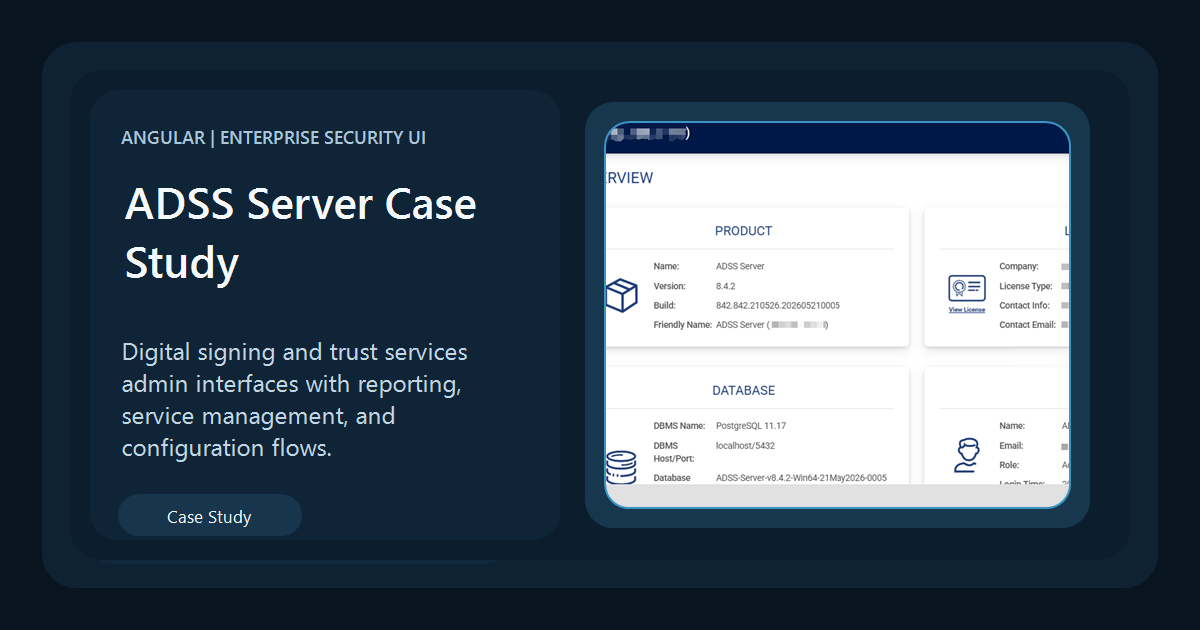
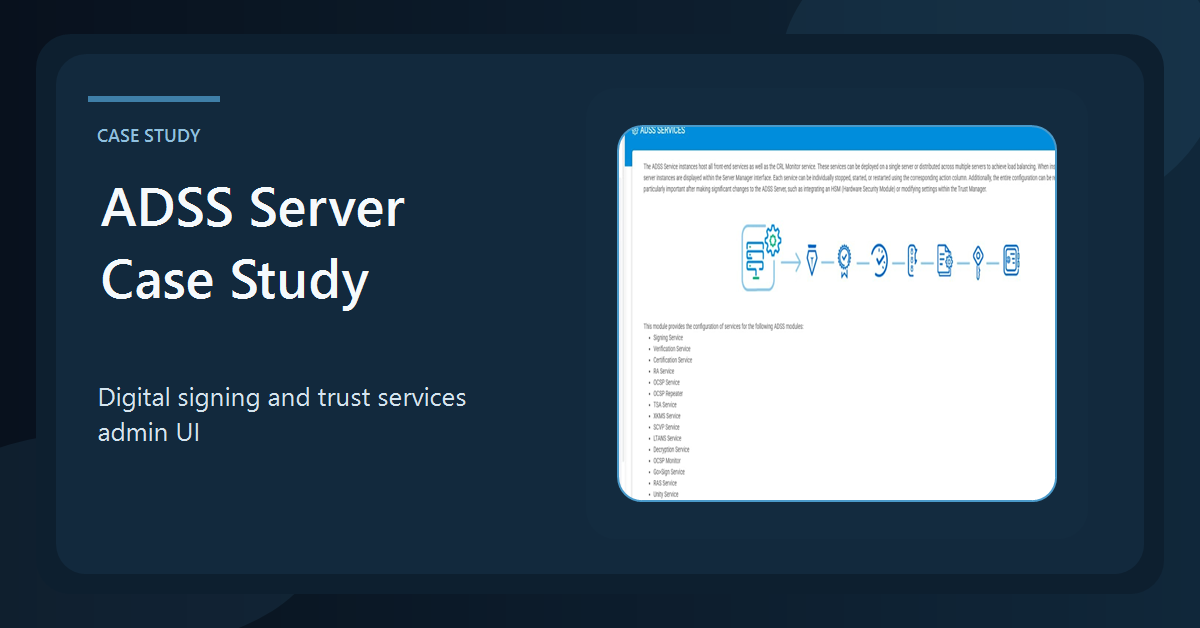
og images update - v4

diff --git a/portfolio/adss-server/index.html b/portfolio/adss-server/index.html
@@ -18,15 +18,15 @@
   <meta property="og:description" content="Case study of enterprise digital signing and trust services admin interfaces built with Angular, including configuration workflows, reporting screens, and service management UI.">
   <meta property="og:type" content="article">
   <meta property="og:url" content="https://talha5131.github.io/portfolio/adss-server">
-  <meta property="og:image" content="https://talha5131.github.io/assets/og/adss-server-og-v3.png">
+  <meta property="og:image" content="https://talha5131.github.io/assets/og/adss-server-og-v4.png">
   <meta property="og:image:width" content="1200">
-  <meta property="og:image:height" content="627">
+  <meta property="og:image:height" content="628">
   <meta property="og:image:alt" content="ADSS Server Angular case study preview">
   <meta property="og:site_name" content="Muhammad Talha Safdar Portfolio">
   <meta name="twitter:card" content="summary_large_image">
   <meta name="twitter:title" content="ADSS Server Case Study | Muhammad Talha Safdar">
   <meta name="twitter:description" content="Case study of enterprise digital signing and trust services admin interfaces built with Angular, including configuration workflows, reporting screens, and service management UI.">
-  <meta name="twitter:image" content="https://talha5131.github.io/assets/og/adss-server-og-v3.png">
+  <meta name="twitter:image" content="https://talha5131.github.io/assets/og/adss-server-og-v4.png">
 </head>
 <body>
   <app-root></app-root>

diff --git a/portfolio/pdf-signature-appearance-placement-builder/index.html b/portfolio/pdf-signature-appearance-placement-builder/index.html
@@ -18,15 +18,15 @@
   <meta property="og:description" content="Feature case study showing a PDF signature appearance and placement workflow with live preview, document positioning, and configurable signing UI.">
   <meta property="og:type" content="article">
   <meta property="og:url" content="https://talha5131.github.io/portfolio/pdf-signature-appearance-placement-builder">
-  <meta property="og:image" content="https://talha5131.github.io/assets/og/pdf-signature-builder-og-v3.png">
+  <meta property="og:image" content="https://talha5131.github.io/assets/og/pdf-signature-builder-og-v4.png">
   <meta property="og:image:width" content="1200">
-  <meta property="og:image:height" content="627">
+  <meta property="og:image:height" content="628">
   <meta property="og:image:alt" content="PDF Signature Builder case study preview">
   <meta property="og:site_name" content="Muhammad Talha Safdar Portfolio">
   <meta name="twitter:card" content="summary_large_image">
   <meta name="twitter:title" content="PDF Signature Appearance &amp; Placement Builder | Muhammad Talha Safdar">
   <meta name="twitter:description" content="Feature case study showing a PDF signature appearance and placement workflow with live preview, document positioning, and configurable signing UI.">
-  <meta name="twitter:image" content="https://talha5131.github.io/assets/og/pdf-signature-builder-og-v3.png">
+  <meta name="twitter:image" content="https://talha5131.github.io/assets/og/pdf-signature-builder-og-v4.png">
 </head>
 <body>
   <app-root></app-root>